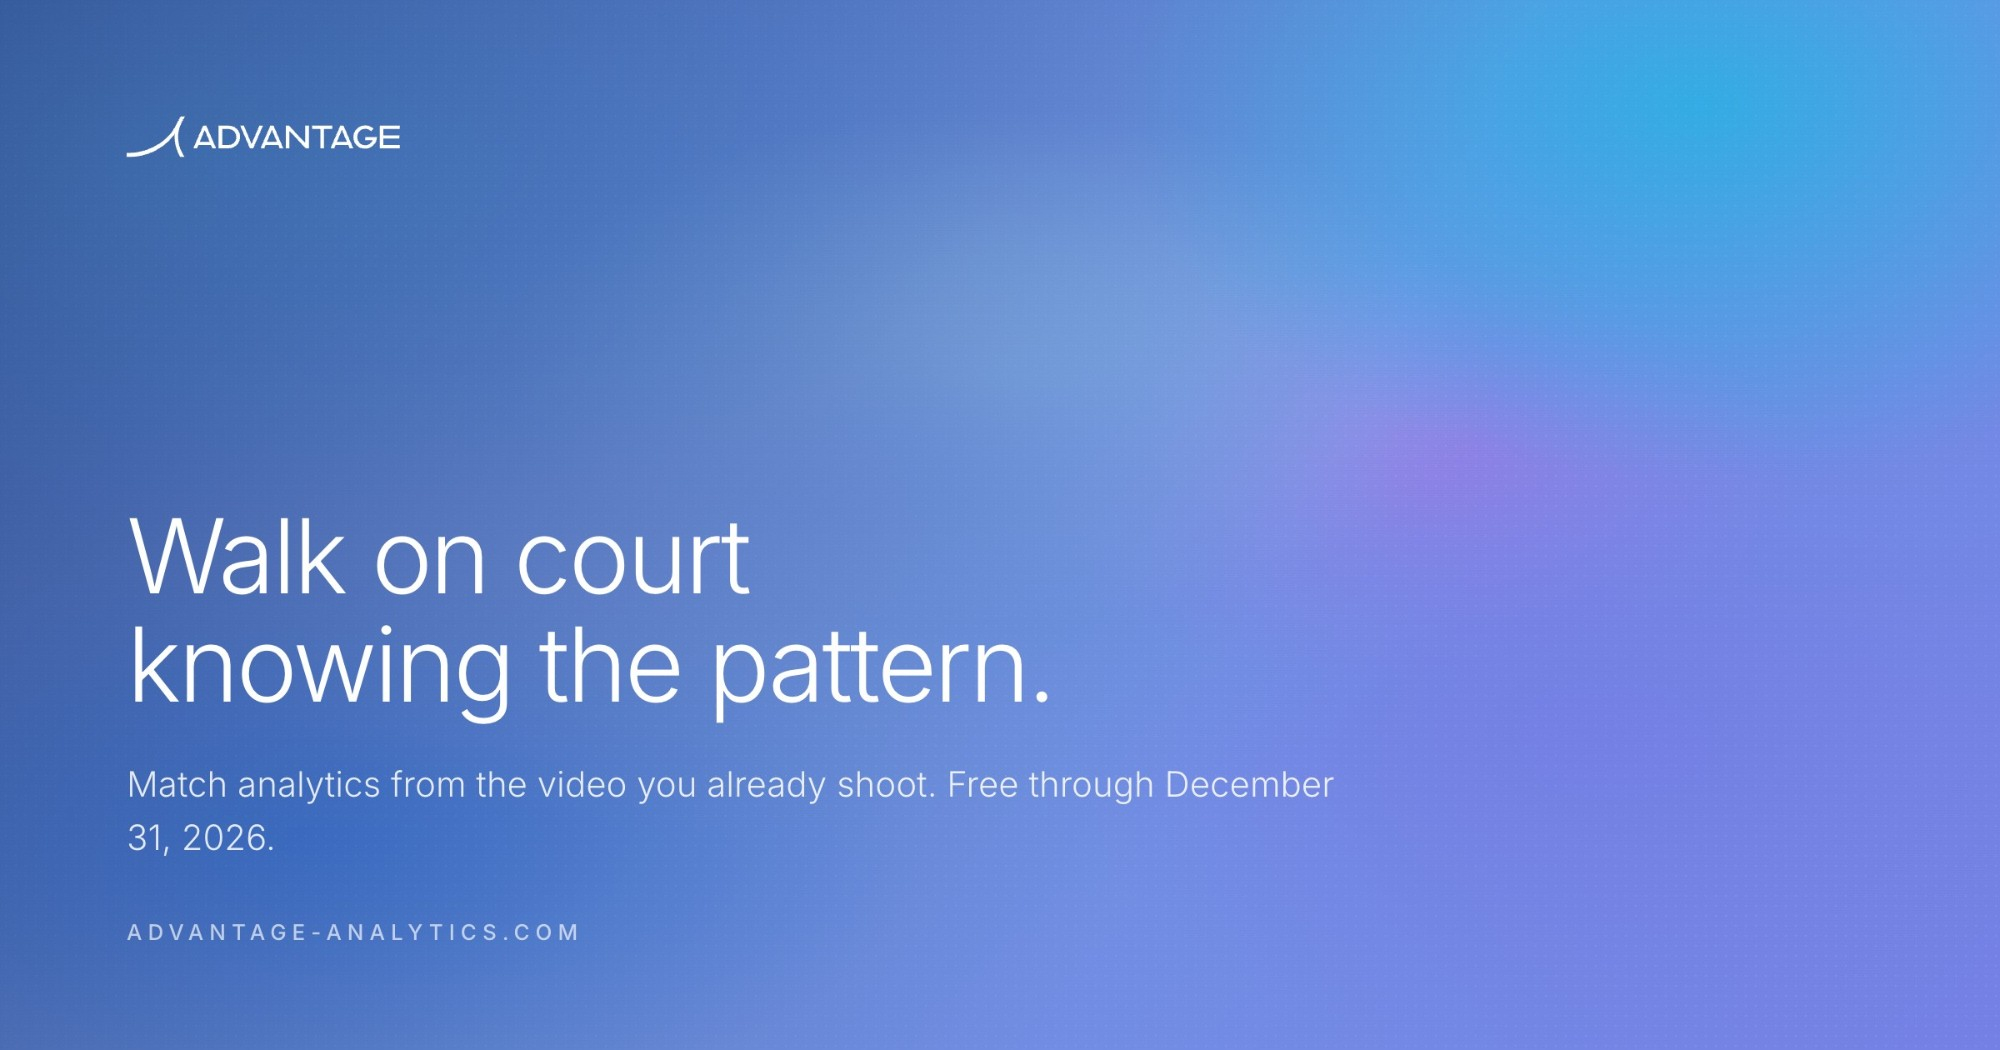
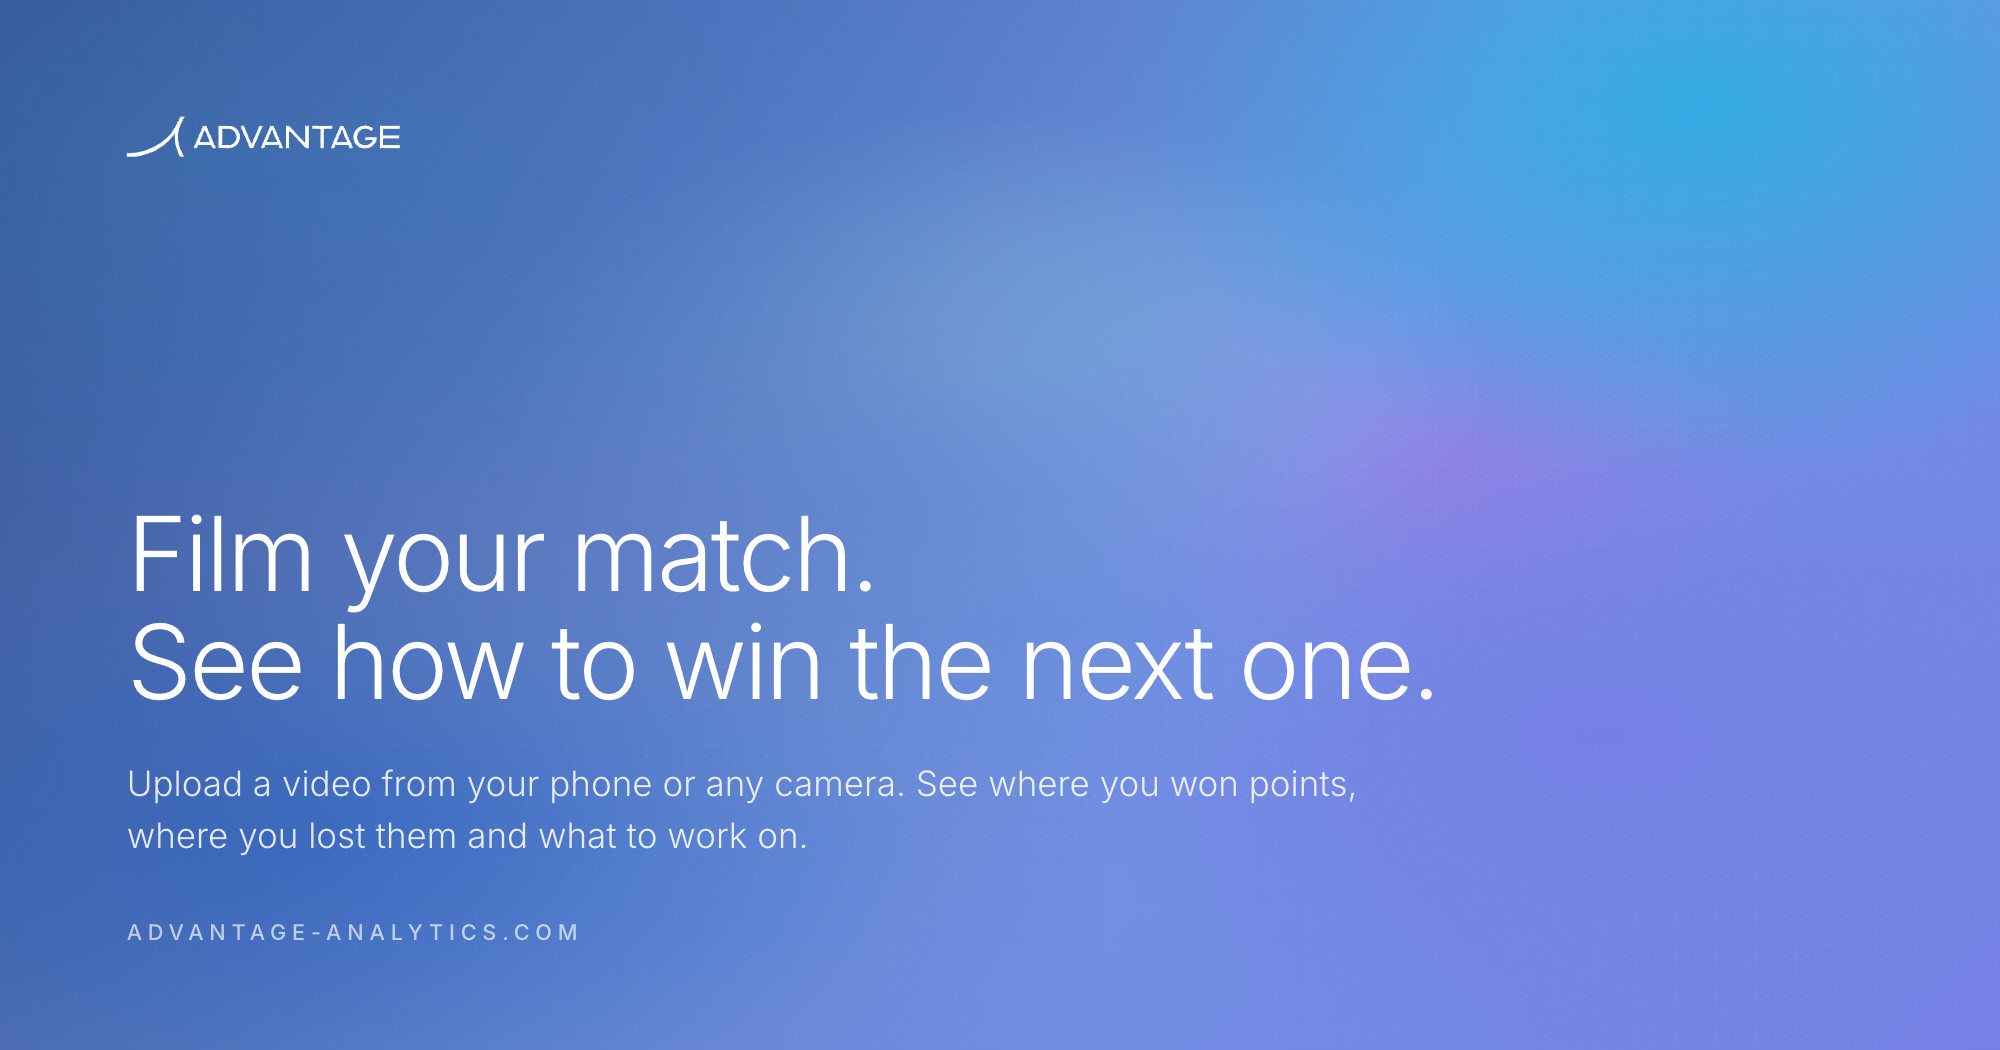
Give key pages their own link preview cards and text
/export-guide, /mcp and /about get their own cards, and the home card is
replaced: it led with an old headline and carried a date that expires on
December 31. All follow the same style as the /pilot card.

Routes that set only `title` and `description` were shared with the home
page's text above their image, so a new pageMetadata helper restates both
for link previews on every route. Setting `openGraph` also drops the root
layout's image, so the helper restates the site card too, and routes with
their own card opt out with `ownCard`, since an explicit image beats a
route's opengraph-image.jpg.

Changed region(s): [[0.062, 0.4876, 0.713, 0.701], [0.062, 0.7314, 0.682, 0.8229], [0.093, 0.1219, 0.186, 0.1524]]

diff --git a/src/app/pilot/page.tsx b/src/app/pilot/page.tsx
@@ -1,4 +1,3 @@
-import type { Metadata } from "next";
 import type { ReactNode } from "react";
 import { Check } from "lucide-react";
 import { CourtDiagram } from "@/components/court-diagram";
@@ -12,6 +11,7 @@ import { PilotTermsBand } from "@/components/perspective/pilot-terms";
 import { ProductTour } from "@/components/perspective/product-tour";
 import { RequestAccess } from "@/components/perspective/request-access";
 import { CONTACT_EMAIL } from "@/lib/links";
+import { pageMetadata } from "@/lib/metadata";
 import {
   BETA_END_SHORT,
   PILOT_END_DATE,
@@ -25,26 +25,8 @@ const title = "The Free Fall Season Pilot — Advantage";
 const description = `The fall season, free, on your own footage. Advantage turns the match video your collegiate program already shoots into shot-by-shot analytics — free through ${PILOT_END_DATE}.`;
 
 // The link preview is this route's own card: ./opengraph-image.jpg, picked up
-// by the file convention. `openGraph` and `twitter` are restated because Next
-// replaces those objects whole rather than merging them, so without them the
-// pilot image would sit above the home page's title and description.
-export const metadata: Metadata = {
-  title,
-  description,
-  openGraph: {
-    title,
-    description,
-    url: "/pilot",
-    siteName: "Advantage",
-    locale: "en_US",
-    type: "website",
-  },
-  twitter: {
-    card: "summary_large_image",
-    title,
-    description,
-  },
-};
+// by the file convention.
+export const metadata = pageMetadata({ title, description, path: "/pilot", ownCard: true });
 
 /* /pilot — the whole commercial offer on one page, built from the home page's
    parts: the same mesh hero with its live dot grid, the same band head

diff --git a/src/lib/metadata.ts b/src/lib/metadata.ts
@@ -1,0 +1,49 @@
+import type { Metadata } from "next";
+import siteCard from "../app/opengraph-image.jpg";
+
+// A route's title and description, repeated for link previews. Next replaces
+// `openGraph` and `twitter` whole rather than merging them, and neither reads
+// the route's own title, so a route that sets only `title` and `description`
+// is shared with the home page's text above its image.
+//
+// Replacing `openGraph` also drops the image the root layout's file convention
+// supplied, so the site card is restated here. An image set here beats a
+// route's own opengraph-image.jpg, so a route with its own card passes `ownCard`.
+export function pageMetadata({
+  title,
+  description,
+  path,
+  ownCard = false,
+  ...rest
+}: { title: string; description: string; path: string; ownCard?: boolean } & Metadata): Metadata {
+  return {
+    title,
+    description,
+    openGraph: {
+      title,
+      description,
+      url: path,
+      siteName: "Advantage",
+      locale: "en_US",
+      type: "website",
+      ...(ownCard
+        ? {}
+        : {
+            images: [
+              {
+                url: siteCard.src,
+                width: siteCard.width,
+                height: siteCard.height,
+                alt: "Advantage. Film your match. See how to win the next one.",
+              },
+            ],
+          }),
+    },
+    twitter: {
+      card: "summary_large_image",
+      title,
+      description,
+    },
+    ...rest,
+  };
+}

diff --git a/src/app/layout.tsx b/src/app/layout.tsx
@@ -54,10 +54,10 @@ export const metadata: Metadata = {
   //   src/app/icon.png            -> <link rel="icon">
   //   src/app/apple-icon.png      -> <link rel="apple-touch-icon">
   //   src/app/opengraph-image.jpg -> og:image (and the twitter card image)
-  // That image is the site-wide card; /pilot overrides it with its own
-  // src/app/pilot/opengraph-image.jpg. The card it replaced (the wordmark on
-  // black) is kept in assets/link-previews/, outside src/app and public/ so it
-  // is neither picked up as metadata nor served.
+  // That image is the site-wide card; /pilot, /export-guide, /mcp and /about
+  // override it with their own opengraph-image.jpg. An older card (the wordmark
+  // on black) is kept in assets/link-previews/, outside src/app and public/ so
+  // it is neither picked up as metadata nor served.
   // Without the apple-icon, "Add to Home Screen" on iOS falls back to a
   // screenshot of the page instead of the logo: Safari ignores rel="icon"
   // there. The file is a 180x180 opaque square (iOS masks it into its own

diff --git a/src/app/export-guide/page.tsx b/src/app/export-guide/page.tsx
@@ -10,14 +10,17 @@ import {
   VIDEO_MIN_RESOLUTION,
   VIDEO_SIZE_PER_HOUR,
 } from "@/lib/match-video";
+import { pageMetadata } from "@/lib/metadata";
 import "./export-guide.css";
 
-export const metadata = {
+export const metadata = pageMetadata({
   title: "Getting match video into Advantage — Advantage",
   // Built from the constants, not restated: a stale figure here is the least
   // recoverable kind, since it is what search results and link previews show.
   description: `How to film a match and get the video into the Advantage dashboard: ${VIDEO_MIN_RESOLUTION} or better, ${VIDEO_MIN_FPS} or higher, ${VIDEO_FORMATS}, under ${VIDEO_MAX_SIZE}. Settings for iPhone, Android, GoPro, PlaySight and SwingVision.`,
-};
+  path: "/export-guide",
+  ownCard: true,
+});
 
 /* Linked from the dashboard uploader and its Help page, the home page's How it
    works and FAQ, and the footer. Whoever is here has a match on a phone, a

diff --git a/src/app/mcp/page.tsx b/src/app/mcp/page.tsx
@@ -3,13 +3,16 @@ import { PageFrame } from "@/components/perspective/page-frame";
 import { CONTACT_EMAIL, links } from "@/lib/links";
 import { apps, faqs, privacy, prompts, tools, url } from "./content";
 import { CopyButton, SetupPicker } from "./mcp-client";
+import { pageMetadata } from "@/lib/metadata";
 import "./mcp-guide.css";
 
-export const metadata = {
+export const metadata = pageMetadata({
   title: "Use Advantage in your AI app — Advantage",
   description:
     "Connect Claude, ChatGPT, Cursor or any MCP app to your Advantage account and ask about your tennis matches in plain language.",
-};
+  path: "/mcp",
+  ownCard: true,
+});
 
 /* The public instructions for the Ask connector (the dashboard's /api/mcp,
    docs/ask-mcp-connector.md there): the one place each app's setup is

diff --git a/src/app/send-a-match/page.tsx b/src/app/send-a-match/page.tsx
@@ -8,15 +8,17 @@ import {
   VIDEO_MIN_RESOLUTION,
 } from "@/lib/match-video";
 import { PILOT_TERMS } from "@/lib/pilot";
+import { pageMetadata } from "@/lib/metadata";
 import "./send-a-match.css";
 
-export const metadata = {
+export const metadata = pageMetadata({
   title: "Match uploads have moved — Advantage",
   description:
     "We no longer take matches through this page. Programs upload match video to their own Advantage dashboard instead, free through the fall pilot.",
   // Kept only for the cold emails already sent; nobody should find it by search.
   robots: { index: false },
-};
+  path: "/send-a-match",
+});
 
 /* /send-a-match used to be the cold-email intake: a form plus a file upload,
    answered by hand. Uploads now happen in the dashboard, but those emails are

diff --git a/src/lib/pilot.ts b/src/lib/pilot.ts
@@ -6,9 +6,9 @@
 // of those before deciding, and /pilot promises "four terms, no fine print" —
 // so two versions of the offer is exactly the failure the copy says can't
 // happen.
-// Extending the pilot should be one edit in this file — plus the two link
-// preview cards (src/app/opengraph-image.jpg and src/app/pilot/opengraph-image.jpg
-// with their .alt.txt), which have the end date baked into the artwork.
+// Extending the pilot should be one edit in this file — plus the link preview
+// card (src/app/pilot/opengraph-image.jpg with its .alt.txt), which has the end
+// date baked into the artwork.
 
 export const PILOT_END_DATE = "December 31, 2026";
 export const PILOT_PAID_PLANS_BEGIN = "January 2027";

diff --git a/src/lib/match-video.ts b/src/lib/match-video.ts
@@ -5,7 +5,9 @@
 // export guide and the /send-a-match notice all quote these. The uploader
 // enforces the same limits in the dashboard repo, so when they move there,
 // change them here in the same breath: a stale figure is a coach told their
-// file is fine and then refused.
+// file is fine and then refused. The export guide's link preview card
+// (src/app/export-guide/opengraph-image.jpg with its .alt.txt) has these figures
+// baked into the artwork, so it changes with them.
 
 export const VIDEO_MIN_RESOLUTION = "1080p";
 export const VIDEO_MIN_FPS = "30 fps";

diff --git a/src/app/about/page.tsx b/src/app/about/page.tsx
@@ -1,11 +1,14 @@
 import { PageFrame, PageHead } from "@/components/perspective/page-frame";
+import { pageMetadata } from "@/lib/metadata";
 import "./about.css";
 
-export const metadata = {
+export const metadata = pageMetadata({
   title: "About — Advantage",
   description:
     "Our story and mission: performance intelligence for competitive tennis, built by former collegiate players in Los Angeles, California.",
-};
+  path: "/about",
+  ownCard: true,
+});
 
 // Identity facts for the closing bar — drawn only from the copy.
 const FACTS = [

diff --git a/src/app/contact/page.tsx b/src/app/contact/page.tsx
@@ -1,13 +1,15 @@
 import { ArrowUpRight } from "lucide-react";
 import { PageFrame } from "@/components/perspective/page-frame";
 import { ContactForm } from "./contact-form";
+import { pageMetadata } from "@/lib/metadata";
 import "./contact.css";
 import { LiveDots } from "@/components/perspective/live-dots";
 
-export const metadata = {
+export const metadata = pageMetadata({
   title: "Contact — Advantage",
   description: "Get in touch with the Advantage team.",
-};
+  path: "/contact",
+});
 
 const EMAIL = "team@advantage-analytics.com";
 

diff --git a/src/app/legal/guardian-terms/page.tsx b/src/app/legal/guardian-terms/page.tsx
@@ -1,12 +1,14 @@
 import Link from "next/link";
 import { PageFrame, PageHead } from "@/components/perspective/page-frame";
+import { pageMetadata } from "@/lib/metadata";
 import "../legal.css";
 
-export const metadata = {
+export const metadata = pageMetadata({
   title: "Guardian Terms — Advantage",
   description:
     "The terms a parent or legal guardian agrees to when they create and manage an Advantage account for a junior player.",
-};
+  path: "/legal/guardian-terms",
+});
 
 export default function Page() {
   return (

diff --git a/src/app/legal/terms-and-conditions/page.tsx b/src/app/legal/terms-and-conditions/page.tsx
@@ -1,11 +1,13 @@
 import Link from "next/link";
 import { PageFrame, PageHead } from "@/components/perspective/page-frame";
+import { pageMetadata } from "@/lib/metadata";
 import "../legal.css";
 
-export const metadata = {
+export const metadata = pageMetadata({
   title: "Terms and Conditions — Advantage",
   description: "The terms that govern your use of the Advantage platform and services.",
-};
+  path: "/legal/terms-and-conditions",
+});
 
 export default function Page() {
   return (
